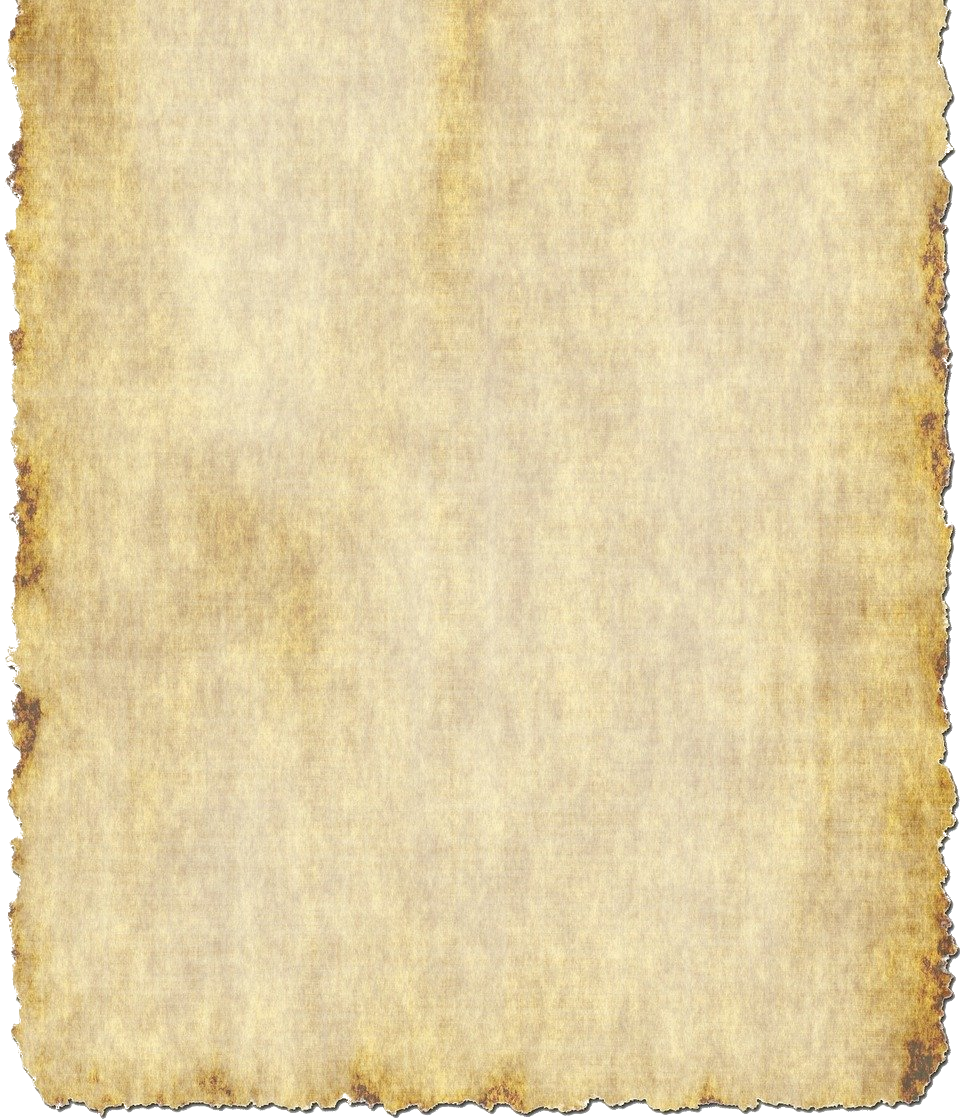
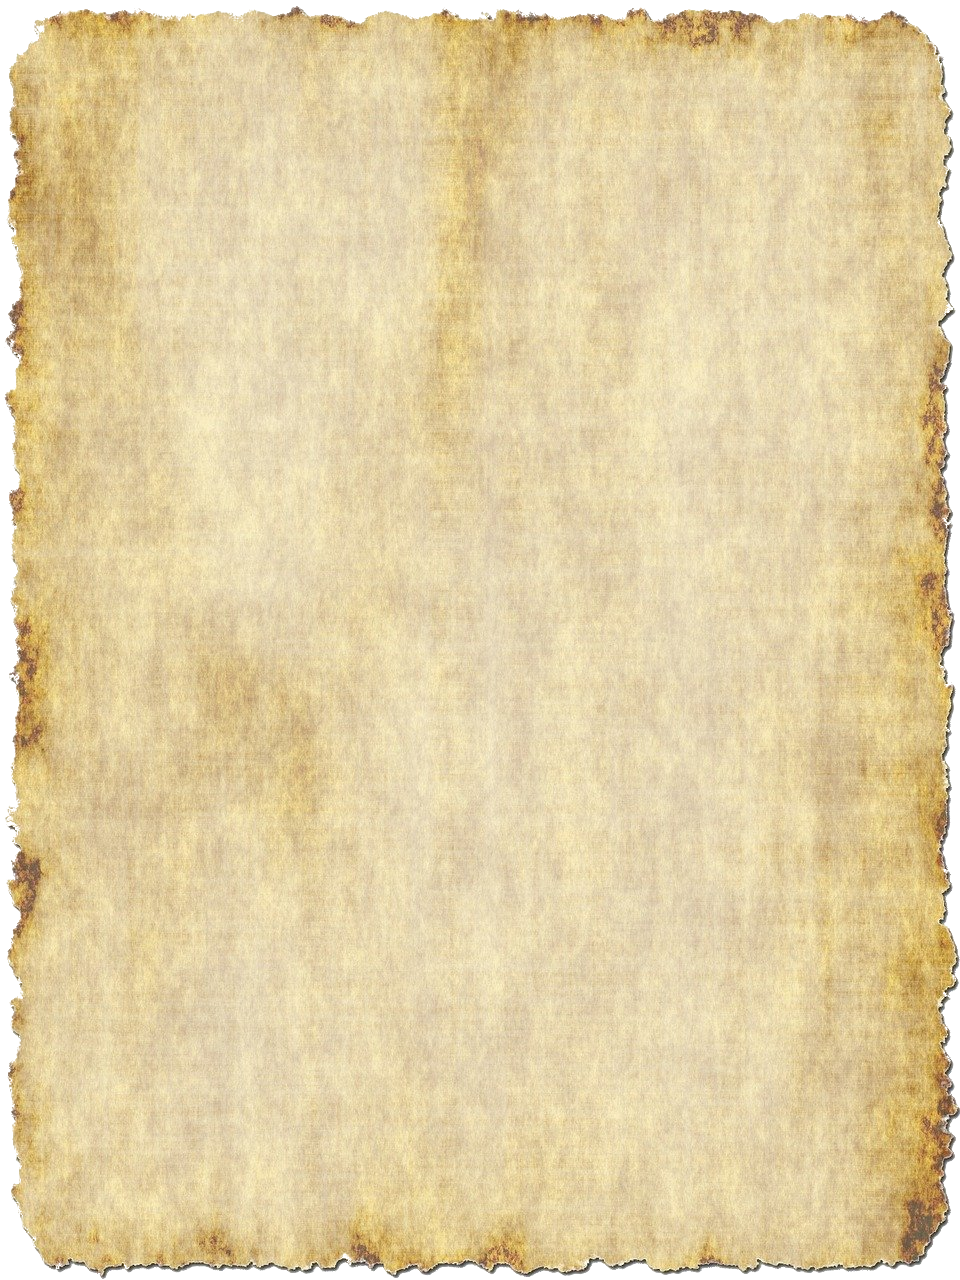
Moved around html and added css styling

diff --git a/shoppingCart.css b/shoppingCart.css
@@ -16,50 +16,185 @@
     
 }
 
-.cart-header{
-    font-size: 1.2rem;
+.test-container{
     margin-top: 2em;
+    margin-left: 1em;
 }
 
-
-.total-price-container{
-    margin-top: 1em;
-    display: flex;
-    width: 100%;
-    justify-content: space-between;
+.cart-header{
+  margin: auto;
+  width: 90%;
+  height: 15%;
+  display: flex;
+  justify-content: space-between;
+  align-items: center;
 }
 
-.total-price{
-    font-size: 1rem;
+.heading{
+    font-size: 1.2rem;
 }
 
-.dish-article{
-    margin-top: 1em;
-    width: 100%;
-    display: flex;
-    justify-content: space-between;
-    font-size: 1rem;
-}
+.remove-all{
+    padding-top: .3em;
+    font-size: .8rem;
+    margin-right: 1em;
 
-.place-order{
-    margin-top: 1em;
-    margin-left: 4.5em;
-}
-
-.order-btn {
     border-radius: 10px;
     border-style: none;
     background-color: #087F8C;
     color: white;
     font-weight: bold;
-    padding: 1em 2em;
+    padding: .8em .8em;
+   
+    box-shadow: 1px 1px 10px black;
+
+}
+
+
+.cart-items{
+    margin-top: 1em;
+    width: 90%;
+    height: 30%;
+    display: flex;
+    justify-content: space-between;
+    align-items: center;
+    font-size: 1rem;
+}
+
+.about{
+    height: 100%;
+}
+
+.title{
+    padding-top: .5em;
+    line-height: 1em;
+    font-size: 1.2rem;
+}
+
+.subtitle{
+    line-height: 1em;
+    font-size: .8rem;
+}
+
+.counter{
+    width: 15%;
+    gap: .2em;
+    display: flex;
+    justify-content: space-between;
+    align-items: center;
+    font-weight: bold;
+    margin-bottom: 3.5em;
+}
+
+.counter-btn{
+    width: 3em;
+    /* height: 1em; */
+    line-height: 1em;
+    border-radius: 50%;
+    background-color: #087F8C;
+    display: flex;
+    justify-content: center;
+    align-items: center;
+    font-size: 1.2rem;
+
+}
+
+.count{
+    font-size: 1.4rem;
+}
+
+.prices{
+    height: 100%;
+    text-align: right;
+}
+
+.amount{
+    padding-top: 1.5em;
+    font-size: 1.2rem;
+    font-weight: bold;
+}
+
+.remove{
+    padding-top: .3em;
+    font-size: .8rem;
+    margin-top: .5em;
+
+    border-radius: 10px;
+    border-style: none;
+    background-color: #087F8C;
+    color: white;
+    font-weight: bold;
+    padding: .3em .3em;
+   
+    box-shadow: 1px 1px 10px black;
+}
+
+.item-img{
+    width: 4em;
+    margin-bottom: 2em;
+    
+}
+
+
+hr{
+    width: 80%;
+    float:right;
+    margin-right: 10%;
+}
+
+.checkout{
+    float: right;
+  
+    margin-right: 5%;
+    display: flex;
+   
+}
+
+.total{
+    display: flex;
+    justify-content: space-between;
+    margin-bottom: 1em;
+    margin-left: 2em;
+    margin-right: 2em;
+}
+
+.subtotal{
+    font-size: 1rem;
+    font-weight: bold;
+}
+
+.items{
+    margin-top: 1em;
+    font-size: 1rem;
+    font-weight: bold;
+}
+
+.total-amount{
+    font-size: 1.3rem;
+    font-weight: bold;
+    margin-top: .5em;
+}
+
+
+.place-order{
+    margin-top: 1em;
+   margin-right: 2em;
+}
+
+.place-order-btn {
+    border-radius: 10px;
+    border-style: none;
+    background-color: #087F8C;
+    color: white;
+    font-weight: bold;
+    padding: 1.5em 3em;
     box-shadow: 1px 1px 10px black;
 }
 
 .paper{
     position: absolute;
    z-index: -1;
-   width: 90%;
-    /* height: 80%; */
+   width: 100%;
+    height: 150%;
    
 }

diff --git a/index.html b/index.html
@@ -13,23 +13,74 @@
   <body>
     <section class="cart-container">
       <img class="paper" src="assets/Papper_TP.png" alt="" />
-      <h1 class="cart-header">Din varukorg</h1>
-      <div class="line"></div>
-      <div class="total-price-container">
-        <h2 class="total-price">Totalt pris (inkl.moms)</h2>
-        <p class="price">(Totalt pris)</p>
-      </div>
-      <article class="dish-article">
-        <h3 class="dish">Köttfärssås</h3>
-        <p class="price">100kr</p>
-      </article>
-      <article class="dish-article">
-        <h3 class="dish">Potatisgratäng</h3>
-        <p class="price">100kr</p>
-      </article>
+      <div class="test-container">
+        <div class="cart-header">
+          <h1 class="heading">Din varukorg</h1>
+
+          <h5 class="remove-all">Remove all</h5>
+        </div>
+        <div class="line"></div>
+        
+        <article class="cart-items">
+          <div class="img-box">
+            <img
+              class="item-img"
+              src="assets/photo-1600891964599-f61ba0e24092.jpg"
+              alt="" />
+          </div>
+          <div class="about">
+            <h1 class="title">Köttfärssås</h1>
+            <h3 class="subtitle">diverse info</h3>
+          </div>
+          <div class="counter">
+            <div class="counter-btn">+</div>
+            <div class="count">1</div>
+            <div class="counter-btn">-</div>
+          </div>
+          <div class="prices">
+            <div class="amount">100kr</div>
+            <div class="remove">Remove</div>
+          </div>
+        </article>
+
+        <article class="cart-items">
+          <div class="img-box">
+            <img
+              class="item-img"
+              src="assets/photo-1600891964599-f61ba0e24092.jpg"
+              alt="" />
+          </div>
+          <div class="about">
+            <h1 class="title">Potatisgratäng</h1>
+            <h3 class="subtitle">diverse info</h3>
+          </div>
+          <div class="counter">
+            <div class="counter-btn">+</div>
+            <div class="count">1</div>
+            <div class="counter-btn">-</div>
+          </div>
+          <div class="prices">
+            <div class="amount">150kr</div>
+            <div class="remove">Remove</div>
+          </div>
+        </article>
+        <hr />
+
+        <div class="checkout">
+            
+          <div class="total">
+            <div>
+              <div class="subtotal">Total kostnad:</div>
+              <div class="items">2 varor</div>
+            </div>
+            <div class="total-amount">250kr</div>
+        </div>
+       
       <div class="place-order">
-        <button class="order-btn">Beställ</button>
+        <button class="place-order-btn">Beställ</button>
       </div>
+      </div>
+     
     </section>
   </body>
 </html>
